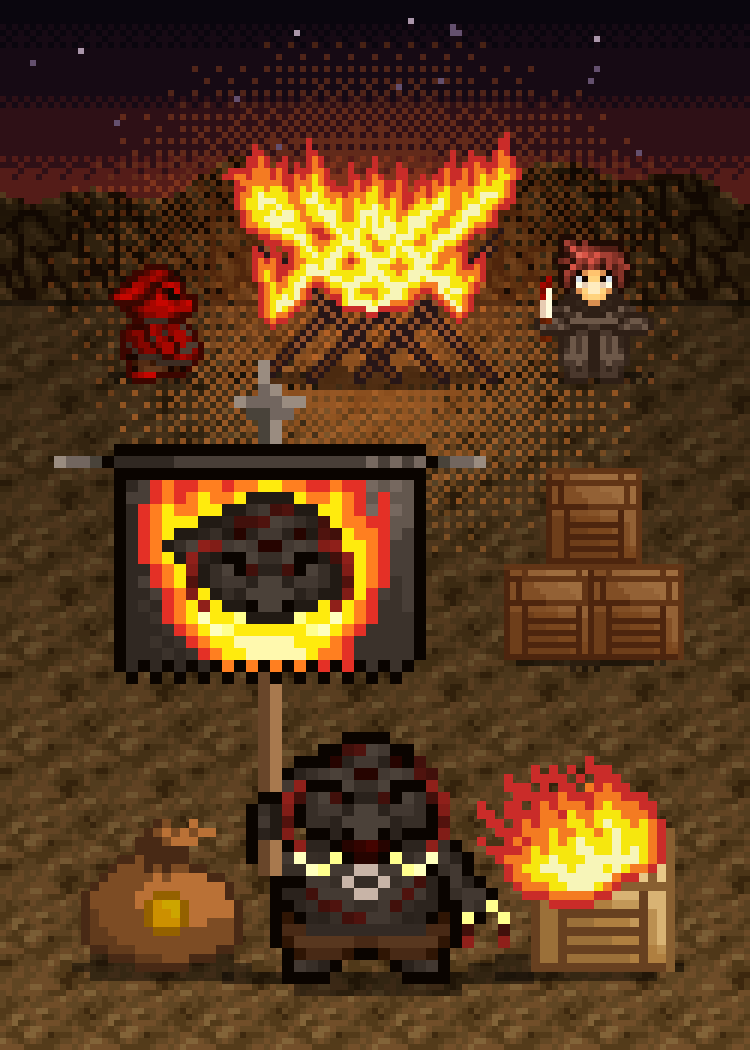
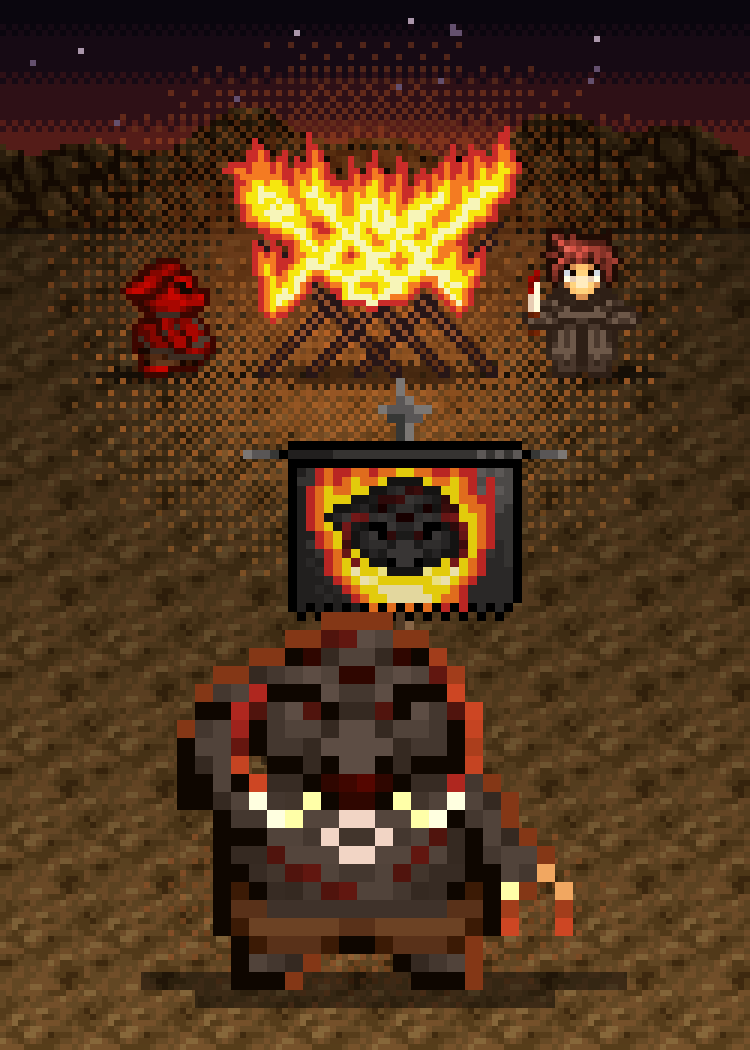
Runde 6: Gegner-Sleeves Zwischenstand
Claude-Session: https://claude.ai/code/session_01TEnvTzH2xD44R6Unjv7vDo

diff --git a/data/sleeve-proposals/runde6/generator/s35_pyre_of_the_warband.py b/data/sleeve-proposals/runde6/generator/s35_pyre_of_the_warband.py
@@ -2,27 +2,29 @@
 """35 Pyre of the Warband – Gegner „Sacrificial Demons“ (sample-Structure Deck Sacrificial Demons), Held: Calamitusk,
 the Chaorc War Chief (Base).
 
-Idee: Nacht im Krater des Chaorc-Lagers (ORKLAGER seiner Kartenszene). Vorn steht Calamitusk groß mit seinem
-Kriegsbanner mit dem Flammenauge; hinter ihm lodert das große Opferfeuer des Lagers (Pyre Grill Master). Am Feuer
-wartet links ein rot vermummter Chaorc, rechts steht Asriel, the Sapling Sacrificer (Cover-Karte des Decks) mit
-seinem blutigen Opfermesser – Opfer bringen, damit neue Chaorcs und Dämonen kommen. Vorn wie auf der Heldenkarte die
-brennende Kiste und der Geldsack, rechts ein Kistenstapel des Lagers.
+Idee: Nacht im Krater des Chaorc-Lagers (ORKLAGER seiner Kartenszene). Ganz vorn steht Calamitusk groß und vom
+Feuer hinter ihm rot umrandet; direkt hinter ihm ist sein Kriegsbanner mit dem Flammenauge in den Boden gerammt
+(auf der Heldenkarte hält er es – hier steht es hinter ihm, damit er selbst das Hauptmotiv bleibt). Weit hinten im
+Krater lodert das große Opferfeuer (Pyre Grill Master), links davon ein rot vermummter Chaorc, rechts Asriel, the
+Sapling Sacrificer (Cover-Karte) mit blutigem Opfermesser – alle mit Bodenschatten im Feuerschein. Opfer bringen,
+damit neue Chaorcs kommen.
 
 Quellen:
-  MotiveHawaii.xcf Ebene 137 „Calamitustk-Kopie“ + 133 „Ebene #53“ (Banner) – Base-Calamitusk, geprüft gegen Szene
-                   132 „Sichtbar #17“ (Kartenbild, Lage 136,105; Banner-Querstange im Kartenbild vom Kartenrand
-                   verdeckt, Figur sonst pixelgleich). 138 „Calamitustk“ weicht in 152 px ab (nicht verwendet).
-                   Ebene 123 (Flammen) + 130 (Scheitholz-Kreuz, rechter Teil) – großes Lagerfeuer der Pyre-Grill-Karte.
-                   Ebene 129 „Ebene #60“ – rot vermummter Chaorc. Ebene 139 (Feuer) + 141 „ORKLAGER“ (Kiste, Geldsack,
-                   Kistenstapel) – wie auf der Heldenkarte.
-                   Ebene 269 „Ebene #4“ – Kachel Lagerboden (16×16) und Kraterhang (16×16).
+  MotiveHawaii.xcf Ebene 137 „Calamitustk-Kopie“ – Base-Calamitusk, geprüft gegen Szene 132 „Sichtbar #17“
+                   (Kartenbild, Lage 136,105; 11 px Abweichung nur am Bannerstab, der dort vor seiner Hand liegt);
+                   138 „Calamitustk“ weicht in 152 px ab (nicht verwendet). Ebene 133 „Ebene #53“ – sein Banner
+                   (Querstange im Kartenbild vom Kartenrand verdeckt), hier einzeln hinter ihm aufgepflanzt.
+                   Ebene 123 (Flammen) + 130 (Scheitholz-Kreuz, rechter Teil) – Lagerfeuer der Pyre-Grill-Karte.
+                   Ebene 129 „Ebene #60“ – rot vermummter Chaorc. Ebene 269 „Ebene #4“ – Kachel Lagerboden (16×16)
+                   und Kraterhang (16×16).
   MotiveGrailWar.xcf Ebene 156 „Asriel“ – Asriel mit blutigem Messer (Szene 151, Karte Asriel, Lage 256,81).
-Selbst gezeichnet: Nachthimmel mit Feuerschein, Kraterrand-Kante, Lichtschein, Bodenschatten.
+Selbst gezeichnet: Nachthimmel mit Feuerschein, Kraterrand-Kante, Lichtschein, Bodenschatten, roter Lichtsaum
+(Oberkanten-Pixel von Calamitusk im 6×-Raster aufgehellt/getönt).
 
 Skalierung (Tiefenebenen):
-  Hintergrund: Himmel, Kraterhang, Boden, Feuer, Chaorc, Asriel, Kisten     – 2× (125×175)
-  Mittelgrund: brennende Kiste, Geldsack                                    – 3× (84×117)
-  Vordergrund: Calamitusk mit Banner                                       – 4× (63×88); 152×208 px
+  Hintergrund: Himmel, Kraterhang, Boden, Feuer, Chaorc, Asriel, Schatten   – 2× (125×175)
+  Mittelgrund: Banner mit Stab und Schatten                                – 3× (84×117); 108×129 px
+  Vordergrund: Calamitusk + Bodenschatten                                  – 6× (42×59); 132×126 px
 """
 import math, random
 import numpy as np
@@ -31,7 +33,8 @@ from kit_f import *  # noqa
 H = 'MotiveHawaii'
 rnd = random.Random(35)
 
-cala = sprite('o35_calamitusk', H, [133, 137])                   # 38×52
+cala = sprite('o35_calamitusk_body', H, [137])                 # 22×21
+banner = sprite('o35_banner', H, [133])                          # 36×43
 def _pyre():
     logs = layer(H, 130).copy(); logs[:, :150] = 0                # nur das Scheitholz-Kreuz unter dem Feuer
     a = xcfkit.over(logs, layer(H, 123))                           # Flammen (123) liegen über dem Holz (130)
@@ -42,21 +45,14 @@ def _pyre():
 pyre = cached('o35_pyre', _pyre)                                   # 50×42
 chaorc = sprite('o35_chaorc', H, [129])
 asriel = sprite('o35_asriel', 'MotiveGrailWar', [156])
-bag = cached('o35_bag', lambda: parts(layer(H, 141), dil=1)[5])
-def _burning():
-    a = compose(H, [139, 141], box=(128, 106, 160, 146))
-    return part_at(a, a.shape[1] // 2, a.shape[0] - 2, dil=0)       # nur die brennende Kiste der Heldenkarte
-
-
-burning = cached('o35_burning_crate', _burning)
 dirt = cached('o35_dirt', lambda: layer(H, 269)[60:76, 120:136].copy())
 slope = cached('o35_slope', lambda: layer(H, 269)[160:176, 66:82].copy())
 
 # ---------------- Hintergrund 2× (125×175) -------------------------------------------------------------------
 bw, bh = grid(2)
 bg = rgba(bw, bh, (0, 0, 0))
-RIM = 30                                                         # Oberkante Kraterhang (2×) → y 60
-FLOOR = 50                                                       # Beginn Kraterboden → y 100
+RIM = 22                                                         # Oberkante Kraterhang (2×) → y 44
+FLOOR = 38                                                       # Beginn Kraterboden → y 76
 bands(bg, 0, RIM + 4, [(10, 6, 14), (22, 10, 20), (46, 16, 22), (84, 28, 24)], soft=0.5)
 for _ in range(16):
     x, y = rnd.randrange(3, bw - 3), rnd.randrange(3, 26)
@@ -67,7 +63,7 @@ for y in range(bh):
         if y >= FLOOR:
             c = dirt[y % 16, x % 16, :3].astype(float)
             t = (y - FLOOR) / (bh - FLOOR)
-            c = c * (0.34 + 0.3 * t)
+            c = c * (0.3 + 0.36 * t)
             bg[y, x, :3] = c.clip(0, 255).astype(np.uint8)
         elif y >= rim:
             c = slope[y % 16, x % 16, :3].astype(float)
@@ -78,54 +74,50 @@ for y in range(bh):
 for x in range(bw):                                              # Hangfuß
     bg[FLOOR, x, :3] = (bg[FLOOR, x, :3] * 0.6).astype(np.uint8)
 # Feuerschein
-PX, PB = 62, 64                                                  # Feuer-Mitte (Spalte), Fußzeile (2×) → y 128
-glow(bg, PX, PB - 18, 60, (255, 120, 40), 0.5, ry=46)
-glow(bg, PX, PB + 4, 52, (255, 150, 60), 0.35, ry=30)
-shade_ellipse(bg, PX, PB - 1, 26, 2.2, 0.55)
+PX, PB = 62, 63                                                  # Feuer-Mitte (Spalte), Fußzeile (2×) → y 126
+glow(bg, PX, PB - 18, 62, (255, 120, 40), 0.5, ry=44)
+glow(bg, PX, PB + 6, 58, (255, 150, 60), 0.38, ry=34)
+glow(bg, 62.5, 150, 46, (200, 90, 40), 0.3, ry=22)              # Feuerlicht auf dem Boden um Calamitusk
+shade_ellipse(bg, PX, PB - 0.5, 24, 2.4, 0.5)
 put(bg, pyre, PX - pyre.shape[1] // 2, PB - pyre.shape[0])
-# Kistenstapel des Lagers rechts auf halber Tiefe
-crate = cached('o35_crate', lambda: parts(layer(H, 141), dil=1)[4])
-crD = mul(crate, (0.62, 0.52, 0.46), (14, 4, 0))
-shade_ellipse(bg, 98, 110, 15, 1.8, 0.5)
-put(bg, crD, 84, 110 - 16)
-put(bg, crD, 98, 110 - 16)
-put(bg, crD, 91, 110 - 32)
-# Chaorc links, Asriel rechts am Feuer
-for s, cx in ((chaorc, 26), (asriel, 99)):
-    shade_ellipse(bg, cx, PB - 1, s.shape[1] / 2 + 1, 1.5, 0.5)
-    lit = mul(s, (1.12, 1.0, 0.9), (18, 6, 0))
-    put(bg, lit, cx - s.shape[1] // 2, PB - s.shape[0])
+# Chaorc links, Asriel rechts am Feuer, mit Schatten vom Feuer weg
+for s_, cx, dx in ((chaorc, 28, -3), (asriel, 97, 3)):
+    shade_ellipse(bg, cx + dx, PB - 0.5, s_.shape[1] / 2 + 3, 1.6, 0.45)
+    lit = mul(s_, (1.12, 1.0, 0.9), (18, 6, 0))
+    put(bg, lit, cx - s_.shape[1] // 2, PB - s_.shape[0])
 
-# ---------------- Mittelgrund 3× (84×117): brennende Kiste, Geldsack ------------------------------------------
+# ---------------- Mittelgrund 3× (84×117): aufgepflanztes Banner -------------------------------------------------
 mw, mh = grid(3)
 mg = rgba(mw, mh)
-MF = 108                                                          # Fußlinie → y 324
-bx = mw - 9 - burning.shape[1]
-shade_ellipse(mg, bx + burning.shape[1] / 2, MF, 10, 1.5, 0.5)
-for sx0, s in ((bx, burning), (9, bag)):
-    for y in range(MF - 2, MF + 2):
-        for x in range(sx0 - 1, sx0 + s.shape[1] + 1):
-            d = ((x + .5 - sx0 - s.shape[1] / 2) / (s.shape[1] / 2 + 1)) ** 2 + ((y + .5 - MF + 0.5) / 1.6) ** 2
-            if d < 1: mg[y, x] = (0, 0, 0, 110)
-put(mg, burning, bx, MF - burning.shape[0])
-put(mg, mul(bag, (0.8, 0.72, 0.66)), 9, MF - bag.shape[0])
+BB = 84                                                           # Stabfuß (3×) → y 252, hinter Calamitusk
+bx = (mw - banner.shape[1]) // 2 + 3
+for y in range(BB - 1, BB + 2):                                   # Schatten am Stabfuß
+    for x in range(bx + 2, bx + 14):
+        d = ((x + .5 - bx - 7.5) / 6) ** 2 + ((y + .5 - BB) / 1.3) ** 2
+        if d < 1: mg[y, x] = (0, 0, 0, 110)
+put(mg, mul(banner, (0.92, 0.88, 0.86)), bx, BB - banner.shape[0] + 1)
 
-# ---------------- Vordergrund 4× (63×88): Calamitusk -------------------------------------------------------------
-fw, fh = grid(4)
+# ---------------- Vordergrund 6× (42×59): Calamitusk -------------------------------------------------------------
+fw, fh = grid(6)
 fg = rgba(fw, fh)
-CF = 82                                                           # Füße → y 328
-CX = 4
-for y in range(CF - 1, CF + 1):                                   # Bodenschatten (4×)
-    for x in range(CX + 14, CX + 40):
-        d = ((x + .5 - CX - 27) / 13) ** 2 + ((y + .5 - CF + 0.5) / 1.2) ** 2
+CF = 55                                                           # Füße → y 330
+CX = (fw - cala.shape[1]) // 2
+for y in range(CF - 1, CF + 1):                                   # Bodenschatten (6×), nach vorn geworfen
+    for x in range(CX - 2, CX + cala.shape[1] + 3):
+        d = ((x + .5 - CX - cala.shape[1] / 2) / (cala.shape[1] / 2 + 3)) ** 2 + ((y + .5 - CF + 0.3) / 1.2) ** 2
         if d < 1: fg[y, x] = (0, 0, 0, 120)
-cl = mul(cala, (1.08, 1.0, 0.95), (10, 4, 0))                    # leichter Feuerschein von hinten
+cl = mul(cala, (1.3, 1.18, 1.12), (14, 6, 0))                     # im Feuerschein etwas aufgehellt
+m = cl[..., 3] > 0
+rim = m.copy(); rim[1:] &= ~m[:-1]; rim[0] = m[0]                 # Oberkanten-Pixel: roter Lichtsaum vom Feuer
+rimx = m.copy(); rimx[:, :-1] &= ~m[:, 1:]                        # rechte Außenkante
+for yy, xx in zip(*np.where(rim | rimx)):
+    cl[yy, xx, :3] = (cl[yy, xx, :3] * 0.45 + np.array([230, 96, 40]) * 0.55).astype(np.uint8)
 put(fg, cl, CX, CF - cala.shape[0])
 
 st = Stack()
 st.add(bg, 2)
 st.add(mg, 3)
-st.add(fg, 4, ox=2)
+st.add(fg, 6, ox=-1)
 save(st.canvas(), '35_pyre_of_the_warband.png')
 if __name__ == '__main__':
     print(preview('35_pyre_of_the_warband.png', 'industrial', 'iron', 'lava', 'onyx'))

diff --git a/data/sleeve-proposals/runde6/generator/s15_red_tide.py b/data/sleeve-proposals/runde6/generator/s15_red_tide.py
@@ -74,8 +74,8 @@ def stand(s, cx, fl=False):
     x = int(cx - s.shape[1] / 2); y = GY + 3 - s.shape[0]
     put(p2, s, x, y); return (x + s.shape[1] // 2, y)
 heads = []
-put(p2, monst, -13, GY + 6 - monst.shape[0]); put(p2, flip(monst), 125 + 13 - monst.shape[1], GY + 6 - monst.shape[0])
-heads.append(stand(witch, 36)); heads.append(stand(wolf, 62)); heads.append(stand(pirate, 88, True))
+put(p2, monst, -9, GY + 6 - monst.shape[0]); put(p2, flip(monst), 125 + 9 - monst.shape[1], GY + 6 - monst.shape[0])
+heads.append(stand(witch, 40)); heads.append(stand(wolf, 62)); heads.append(stand(pirate, 85, True))
 # Deepsea Counter: je Kreatur eine Kette kleiner roter Blasen, die senkrecht zu Siphem aufsteigt
 BUB = [(255, 150, 150), (214, 40, 52), (120, 14, 30)]
 def bubble(x, y, r):

diff --git a/data/sleeve-proposals/runde6/generator/s22_vengeful_vigil.py b/data/sleeve-proposals/runde6/generator/s22_vengeful_vigil.py
@@ -42,7 +42,7 @@ WALL_B = 47 - Y0                                                # Mauerfuß
 tre = crop_alpha(layer(BD, 196))
 th, tw = tre.shape[:2]
 tx = (GX0 + GX1) // 2 - tw // 2
-ty = GY1 - th + 12                       # nur die Goldhaufen-Oberkante ragt ins Tor
+ty = GY1 - th + 1                        # Goldhaufen liegt auf dem Boden hinter dem Gitter
 inner = np.zeros((GH, GW), bool)
 for y in range(GY0, GY1):
     for x in range(GX0, GX1):
